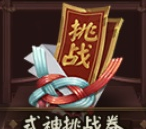
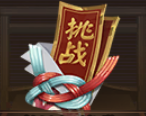
fix(Restart): Grocery Store Buy challenge rolls

diff --git a/tasks/RichMan/assets.py b/tasks/RichMan/assets.py
@@ -23,9 +23,9 @@ class RichManAssets:
 	I_GUILD_SCRAP = RuleImage(roi_front=(570,439,71,68), roi_back=(331,160,559,372), threshold=0.8, method="Template matching", file="./tasks/RichMan/guild/guild_guild_scrap.png")
 	# 皮肤券 
 	I_GUILD_SKIN = RuleImage(roi_front=(795,438,71,72), roi_back=(320,162,573,371), threshold=0.8, method="Template matching", file="./tasks/RichMan/guild/guild_guild_skin.png")
-	# 皮肤券判断是否到末端
+	# 皮肤券判断是否到末端 
 	I_GUILD_SKIN_CHECK = RuleImage(roi_front=(795,438,71,72), roi_back=(320,162,573,371), threshold=0.8, method="Template matching", file="./tasks/RichMan/guild/guild_guild_skin.png")
-	# 购买检查
+	# 购买检查 
 	I_GUILD_CHECK_SCRAP = RuleImage(roi_front=(561,429,90,88), roi_back=(561,429,90,88), threshold=0.8, method="Template matching", file="./tasks/RichMan/guild/guild_guild_check_scrap.png")
 
 
@@ -59,8 +59,7 @@ class RichManAssets:
 
 
 	# Ocr Rule Assets
-	O_BL_RES_SOULS_new = RuleOcr(roi=(88,417,1049,37), area=(88,417,1049,37), mode="Full", method="Default", keyword="随机御魂", name="bl_res_souls_new")
-	# 御魂剩余
+	# 御魂剩余 
 	O_BL_RES_SOULS = RuleOcr(roi=(90,281,31,34), area=(90,281,31,34), mode="Digit", method="Default", keyword="", name="bl_res_souls")
 	# 石头剩余 
 	O_BL_RES_STONE = RuleOcr(roi=(357,284,29,34), area=(357,284,29,34), mode="Digit", method="Default", keyword="", name="bl_res_stone")
@@ -135,8 +134,8 @@ class RichManAssets:
 	I_ME_SOULS = RuleImage(roi_front=(173,391,148,133), roi_back=(121,116,898,476), threshold=0.8, method="Template matching", file="./tasks/RichMan/mall/medal/medal_me_souls.png")
 	# 白蛋 
 	I_ME_WHITE = RuleImage(roi_front=(399,391,142,131), roi_back=(115,114,908,452), threshold=0.8, method="Template matching", file="./tasks/RichMan/mall/medal/medal_me_white.png")
-	# 御灵挑战券 
-	I_ME_CHALLENGE_PASS = RuleImage(roi_front=(618,390,146,129), roi_back=(114,102,914,478), threshold=0.8, method="Template matching", file="./tasks/RichMan/mall/medal/medal_me_challenge_pass.png")
+	# 式神挑战券 
+	I_ME_CHALLENGE_PASS = RuleImage(roi_front=(843,134,146,116), roi_back=(114,102,914,478), threshold=0.8, method="Template matching", file="./tasks/RichMan/mall/medal/medal_me_challenge_pass.png")
 	# 红蛋 
 	I_ME_RED = RuleImage(roi_front=(847,146,137,129), roi_back=(141,129,864,454), threshold=0.8, method="Template matching", file="./tasks/RichMan/mall/medal/medal_me_red.png")
 	# 破碎的咒符 
@@ -164,11 +163,9 @@ class RichManAssets:
 	I_MALL_SCALES_SURE = RuleImage(roi_front=(1195,100,62,85), roi_back=(1195,100,62,85), threshold=0.8, method="Template matching", file="./tasks/RichMan/mall/navbar/navbar_mall_scales_sure.png")
 	# 契灵商店 
 	I_MALL_BONDLINGS_SURE = RuleImage(roi_front=(1194,421,69,74), roi_back=(1194,421,69,74), threshold=0.8, method="Template matching", file="./tasks/RichMan/mall/navbar/navbar_mall_bondlings_sure.png")
-	# 已选中契灵商店
+	# 已选中契灵商店 
 	I_MALL_BONDLINGS_ON = RuleImage(roi_front=(99,417,1021,37), roi_back=(99,417,1021,37), threshold=0.8, method="Template matching", file="./tasks/RichMan/mall/navbar/navbar_mall_bondlings_on.png")
-	# 随机御魂
-	I_ME_SOULS_NEW = RuleImage(roi_front=(980,417,140,37), roi_back=(980,417,140,37), threshold=0.8, method="Template matching", file="./tasks/RichMan/mall/navbar/navbar_mall_bondlings_over.png")
-	# 契灵商店
+	# 契灵商店 
 	I_MALL_BONDLINGS_CHECK = RuleImage(roi_front=(355,186,34,104), roi_back=(355,186,34,104), threshold=0.8, method="Template matching", file="./tasks/RichMan/mall/navbar/navbar_mall_bondlings_check.png")
 	# 杂货铺 
 	I_MALL_SUNDRY = RuleImage(roi_front=(880,646,53,54), roi_back=(834,621,116,90), threshold=0.8, method="Template matching", file="./tasks/RichMan/mall/navbar/navbar_mall_sundry.png")
@@ -205,7 +202,7 @@ class RichManAssets:
 	# 左数第二个 
 	O_MALL_RESOURCE_2 = RuleOcr(roi=(326,8,124,39), area=(326,8,124,39), mode="Digit", method="Default", keyword="", name="mall_resource_2")
 	# 左数第二个 
-	O_MALL_RESOURCE_3 = RuleOcr(roi=(550,9,107,38), area=(550,9,107,38), mode="Single", method="Default", keyword="", name="mall_resource_3")
+	O_MALL_RESOURCE_3 = RuleOcr(roi=(533,9,107,38), area=(533,9,107,38), mode="Digit", method="Default", keyword="", name="mall_resource_3")
 	# 左数第二个 
 	O_MALL_RESOURCE_4 = RuleOcr(roi=(739,8,100,39), area=(739,8,100,39), mode="Digit", method="Default", keyword="", name="mall_resource_4")
 	# 左数第二个 

diff --git a/tasks/RichMan/mall/bondlings.py b/tasks/RichMan/mall/bondlings.py
@@ -60,7 +60,6 @@ class Bondlings(Buy, MallNavbar):
                 # 契灵御魂已经买光
                 logger.warning('本周契灵御魂已经买光')
                 return
-        pos = self.O_BL_RES_SOULS_new.ocr_full(self.device.image)
 
         # 检查是否出现了购买按钮
         if not self.appear(buy_button):
@@ -83,9 +82,9 @@ class Bondlings(Buy, MallNavbar):
         money_enough = cu >= buy_money * buy_number
         if not money_enough:
             logger.warning(f'Money is not enough {cu}')
-            # 判断够不够买2个
-            if cu < buy_money * 2:
-                logger.warning('Money is not enough 2')
+            # 判断够不够买1个
+            if cu < buy_money * 1:
+                logger.warning('Money is not enough 1')
                 return
             buy_number = cu // buy_money
         # 购买
